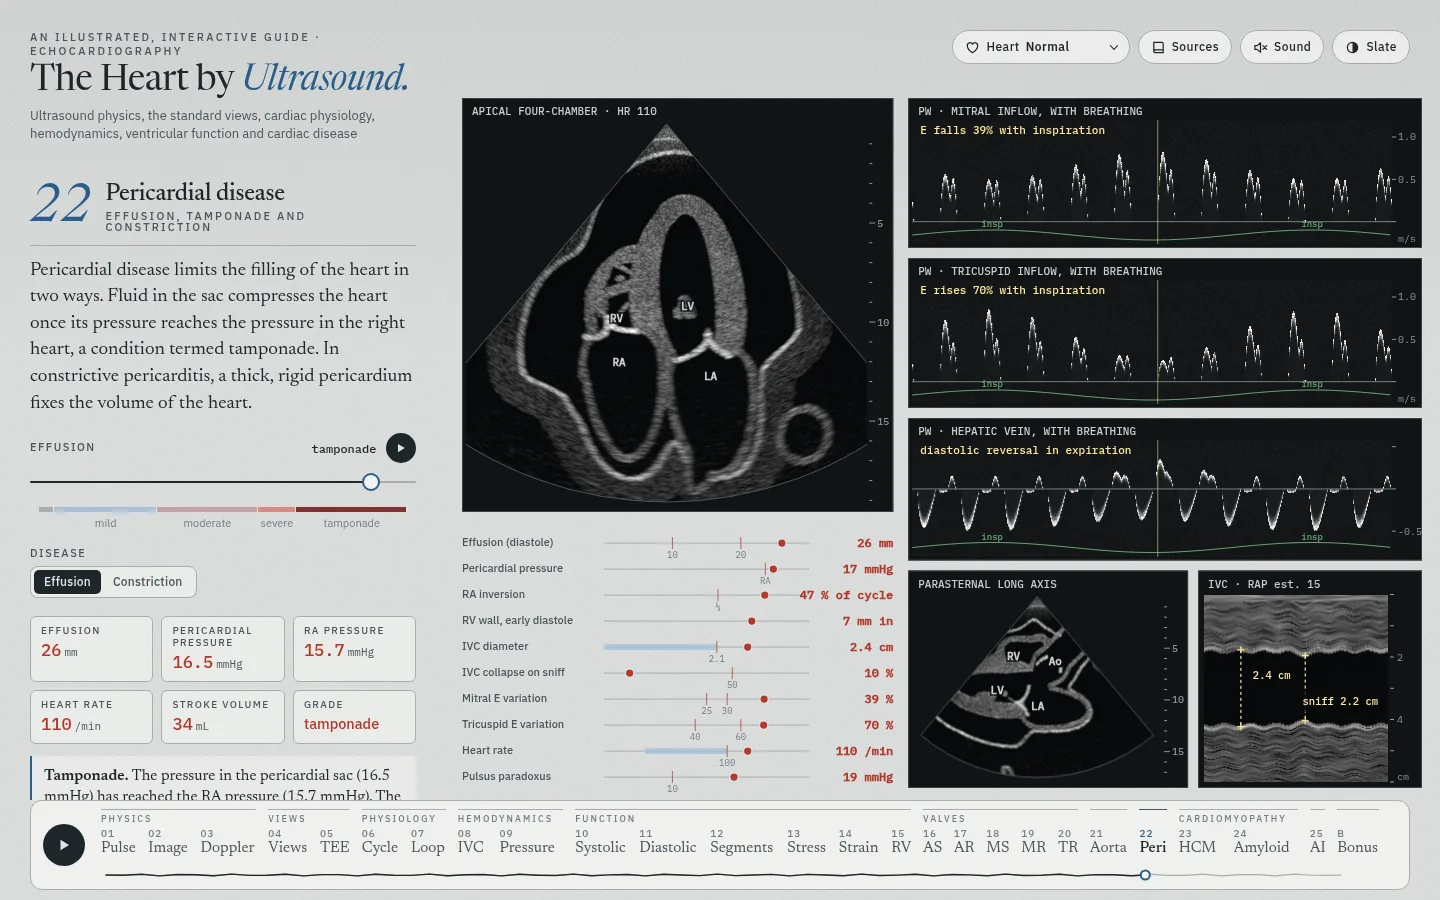
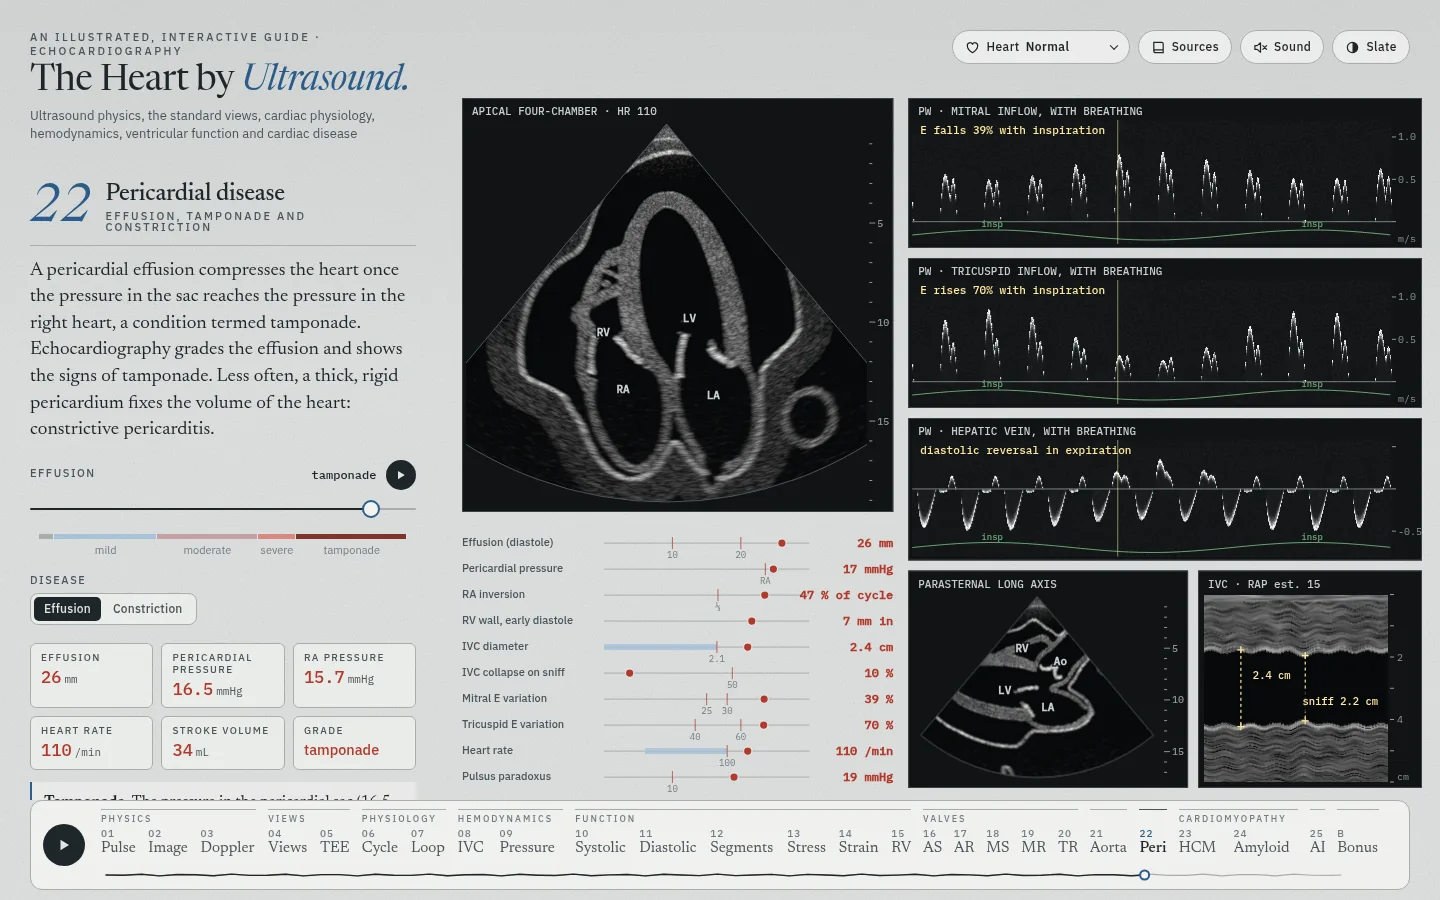
Pericardial disease: the effusion first, constriction shorter
Constriction drops from 559 to 298 words: one section and a paragraph
on restrictive cardiomyopathy, 30% of the words on the two conditions.
The effusion and tamponade keep their 659 words. The dek leads with the
effusion, and three of the four key points are on the effusion and
tamponade. Effusive-constrictive pericarditis is one pitfall of the
effusion. The chapter holds 1,162 words (cap 1,700).

The figure, the live text, the readouts, the quiz and the tour do not
change. README: the chapter row, docs/screenshots/peri.webp and a
checks entry.

Claude-Session: https://claude.ai/code/session_01NtQNVy8YQ5NUAw3xwF3MnN

diff --git a/index.html b/index.html
@@ -1850,7 +1850,7 @@
 
     <article class="chapter" id="ch-peri">
       <div class="ch-head"><span class="ch-num" aria-hidden="true">17</span><div><h2 class="ch-title">Pericardial disease</h2><p class="ch-kicker">Effusion, tamponade and constriction</p></div></div>
-      <p class="dek" data-part="dek">Pericardial disease limits the filling of the heart in two ways. Fluid in the sac compresses the heart once its pressure reaches the pressure in the right heart, a condition termed tamponade. In constrictive pericarditis, a thick, rigid pericardium fixes the volume of the heart.</p>
+      <p class="dek" data-part="dek">A pericardial effusion compresses the heart once the pressure in the sac reaches the pressure in the right heart, a condition termed tamponade. Echocardiography grades the effusion and shows the signs of tamponade. Less often, a thick, rigid pericardium fixes the volume of the heart: constrictive pericarditis.</p>
       <div class="controls">
         <div class="control sev">
           <div class="sev-head">
@@ -1897,34 +1897,25 @@
         <li>The absence of chamber collapse has a negative predictive value of more than 90% for tamponade. RV hypertrophy, severe pulmonary hypertension or severe LV dysfunction can delay or prevent chamber collapse<span class="cite" data-ref="klein2013"></span>.</li>
         <li>Pericardial fluid is distinguished from pleural fluid in the parasternal long-axis view, in which pericardial fluid lies between the descending aorta and the heart and pleural fluid extends posterior to the descending aorta<span class="cite" data-ref="klein2013"></span>.</li>
         <li>Respiratory variation of inflow is not a diagnostic criterion on its own. During positive-pressure ventilation, the variation is minimal, even in tamponade<span class="cite" data-ref="klein2013"></span>.</li>
+        <li>In effusive-constrictive pericarditis, fluid lies between a thickened visceral and parietal pericardium<span class="cite" data-ref="klein2013"></span>, and after pericardiocentesis the RA pressure does not fall by 50% or to below 10 mmHg<span class="cite" data-ref="schulzmenger2025"></span>.</li>
         </ul>
         <h3>Constrictive pericarditis</h3>
-        <p>In constrictive pericarditis a thickened, scarred, inelastic and often calcified pericardium fixes the total volume of the heart, so the diastolic pressures of the chambers rise and equalize. Early diastolic filling is faster than normal, and from mid-diastole little filling occurs<span class="cite" data-ref="klein2013"></span>. Two features define constriction<span class="cite" data-ref="klein2024"></span>:</p>
+        <p>In constrictive pericarditis a thickened, scarred and often calcified pericardium fixes the total volume of the heart, so the diastolic pressures of the chambers rise and equalize<span class="cite" data-ref="klein2013"></span>. The inspiratory fall in intrathoracic pressure reaches the pulmonary veins but not the heart chambers, so LV filling falls with inspiration, RV filling rises and the septum shifts toward the LV. Expiration reverses both, and blood flows back into the hepatic veins<span class="cite" data-ref="klein2013"></span>.</p>
         <ul>
-        <li><b>Dissociation of intrathoracic and intracardiac pressures.</b> The inspiratory fall in intrathoracic pressure reaches the pulmonary veins outside the pericardium but not the heart chambers, so LV filling falls with inspiration<span class="cite" data-ref="klein2013"></span>.</li>
-        <li><b>Ventricular interdependence.</b> As LV filling falls with inspiration, RV filling rises and the septum shifts toward the LV. Expiration reverses both, and blood flows back into the hepatic veins<span class="cite" data-ref="klein2013"></span>.</li>
+        <li><b>Septum.</b> The septum shifts toward the LV with inspiration and moves abruptly toward the LV in early diastole, the septal bounce<span class="cite" data-ref="klein2013"></span>. Without a plethoric IVC and a respiratory septal shift, constriction is unlikely<span class="cite" data-ref="klein2024"></span>.</li>
+        <li><b>Inflow.</b> With inspiration the mitral E velocity falls by more than 25% and the tricuspid E velocity rises by more than 40%<span class="cite" data-ref="klein2013,schulzmenger2025"></span>.</li>
+        <li><b>Annulus and hepatic veins.</b> The medial mitral e′ is normal or increased<span class="cite" data-ref="klein2013"></span>. In expiration the hepatic vein flow reverses at end-diastole<span class="cite" data-ref="klein2013"></span>; the reversal ratio is the end-diastolic reversal velocity ÷ the diastolic forward velocity<span class="cite" data-ref="nagueh2025,klein2024"></span>.</li>
+        <li><b>Pericardium.</b> The normal pericardium is 1–2 mm thick on CT. A thickness above 4 mm on CT or CMR supports constriction, and TTE is unreliable for measuring it<span class="cite" data-ref="klein2013"></span>. Up to 20% of patients with constriction have a pericardium of normal thickness<span class="cite" data-ref="schulzmenger2025"></span>.</li>
         </ul>
-        <h3>Echocardiographic findings of constriction</h3>
-        <ul>
-        <li><b>Septum.</b> The septum shifts toward the LV with inspiration and toward the RV with expiration, and moves abruptly toward the LV in early diastole, the septal bounce. An M-mode recording with a respiratory trace shows both<span class="cite" data-ref="klein2013"></span>.</li>
-        <li><b>IVC and atria.</b> The IVC and the hepatic veins are dilated and collapse little, and both atria are moderately enlarged<span class="cite" data-ref="klein2013"></span>, an LA volume index of 42–48 mL/m²<span class="cite" data-ref="lang2015"></span>. Without a plethoric IVC and a respiratory septal shift, constriction is unlikely<span class="cite" data-ref="klein2024"></span>.</li>
-        <li><b>Mitral and tricuspid inflow.</b> Both ventricles fill in a restrictive pattern. With inspiration the mitral E velocity falls by more than 25% and the tricuspid E velocity rises by more than 40%<span class="cite" data-ref="klein2013,schulzmenger2025"></span>; each variation is (expiration − inspiration) ÷ expiration.</li>
-        <li><b>Hepatic veins.</b> In expiration the diastolic forward flow falls, and the flow reverses at end-diastole<span class="cite" data-ref="klein2013"></span>. The reversal ratio is the end-diastolic reversal velocity ÷ the diastolic forward velocity, both in expiration<span class="cite" data-ref="nagueh2025,klein2024"></span>.</li>
-        <li><b>Tissue Doppler.</b> The medial mitral e′ is normal or increased. The lateral e′ is usually lower, annulus reversus, because the pericardium tethers the lateral annulus, and E/e′ often falls as the LA pressure rises, annulus paradoxus<span class="cite" data-ref="klein2013"></span>.</li>
-        <li><b>Pericardium.</b> The normal pericardium is 1–2 mm thick on CT, and a thickness above 4 mm on CT or CMR supports constriction. TTE is unreliable for measuring the thickness<span class="cite" data-ref="klein2013"></span>, and up to 20% of patients with constriction have a pericardium of normal thickness<span class="cite" data-ref="schulzmenger2025"></span>.</li>
-        </ul>
-        <h3>The Mayo Clinic criteria</h3>
-        <p>In surgically confirmed constriction, septal shift with a medial e′ of 9 cm/s or more, or with a hepatic vein expiratory diastolic reversal ratio of 0.79 or more, had a sensitivity of 87% and a specificity of 91%. All three findings together had a specificity of 97% and a sensitivity of 64%<span class="cite" data-ref="welch2014"></span>. The ESC guideline states the cut-offs as a medial e′ above 8 cm/s and a ratio above 0.78<span class="cite" data-ref="schulzmenger2025"></span>; at the precision that the page prints, they are the same. The guidelines give the septal shift no size; this page calls it present from 3 mm.</p>
+        <p>In the Mayo Clinic series of surgically confirmed constriction, a respiratory septal shift with a medial e′ of 9 cm/s or more, or with a hepatic vein expiratory diastolic reversal ratio of 0.79 or more, had a sensitivity of 87% and a specificity of 91%<span class="cite" data-ref="welch2014"></span>. The guidelines give the septal shift no size; this page calls it present from 3 mm.</p>
         <h3>Constriction or restrictive cardiomyopathy</h3>
-        <p>In restrictive cardiomyopathy, for example cardiac amyloidosis (<a href="#amyloid" data-go="amyloid">chapter 25</a>), the stiff myocardium, not the pericardium, limits filling. The septal e′ is usually 5 cm/s or less<span class="cite" data-ref="nagueh2025"></span>. The 2025 ASE algorithm (<a href="#fill" data-go="fill">chapter 11</a>) grades its diastolic dysfunction, but the guideline does not apply the algorithm in constriction<span class="cite" data-ref="nagueh2025"></span>. The marked respiratory changes in mitral and tricuspid E do not occur<span class="cite" data-ref="hatle1989"></span>, and the atria are more often severely enlarged<span class="cite" data-ref="klein2013"></span>. An e′ below 6 cm/s without a septal shift points to restrictive cardiomyopathy, and an e′ of 6–8 cm/s with a septal shift may indicate mixed physiology<span class="cite" data-ref="klein2024"></span>.</p>
-        <h3>Effusive-constrictive pericarditis</h3>
-        <p>Fluid lies between a thickened visceral and parietal pericardium<span class="cite" data-ref="klein2013"></span>, and the visceral layer constricts the heart. The RA pressure does not fall by 50% or to below 10 mmHg after pericardiocentesis<span class="cite" data-ref="schulzmenger2025"></span>. Before drainage, the Doppler findings lie between those of tamponade and constriction<span class="cite" data-ref="klein2024"></span>.</p>
+        <p>In restrictive cardiomyopathy, for example cardiac amyloidosis (<a href="#amyloid" data-go="amyloid">chapter 25</a>), the stiff myocardium, not the pericardium, limits filling. The septal e′ is usually 5 cm/s or less<span class="cite" data-ref="nagueh2025"></span>, and the marked respiratory changes in mitral and tricuspid E do not occur<span class="cite" data-ref="hatle1989"></span>.</p>
         <h3>Key points</h3>
         <ol class="steps">
         <li>Effusion size is graded by the end-diastolic echo-free space: mild &lt;10 mm, moderate 10–20 mm and severe (large) &gt;20 mm. The rate of fluid accumulation, rather than the size of the effusion, determines how well the effusion is tolerated.</li>
         <li>RA collapse for more than one third of the cardiac cycle and RV free wall collapse in early diastole indicate tamponade physiology. Tamponade is a clinical diagnosis.</li>
-        <li>In constriction, the two ventricles share a fixed volume: inspiration shifts the septum toward the LV, lowers mitral E and raises tricuspid E, and in expiration the hepatic veins reverse.</li>
-        <li>The Mayo Clinic criteria: a respiratory septal shift with a medial e′ of 9 cm/s or more or a hepatic vein expiratory diastolic reversal ratio of 0.79 or more. The medial e′ is reduced in restrictive cardiomyopathy.</li>
+        <li>A dilated IVC that collapses little is present in more than 90% of patients with tamponade, but many other cardiac diseases also cause it.</li>
+        <li>In constriction, inspiration shifts the septum toward the LV and lowers mitral E. The Mayo Clinic criteria pair the septal shift with a medial e′ of 9 cm/s or more or a hepatic vein reversal ratio of 0.79 or more.</li>
         </ol>
       </div>
       <div class="quiz"></div>

diff --git a/README.md b/README.md
@@ -29,7 +29,7 @@ An illustrated, interactive guide to echocardiography: ultrasound physics and Do
 |  | 19 Mitral regurgitation | Mild to severe with LV dysfunction: color jet and flow convergence at 32 cm/s with the PISA radius; CW jet, pulmonary vein flow reversal, E wave, LV and LA dilation. The four-chamber view is cut from the heart mesh, its LA and LV at the printed sizes. Under the Barlow heart the leak starts in mid-systole until it is severe. In the text, the ASE 2017 algorithm (Figure 18) as a diagram, with ▲▼ buttons on thirteen measurements and a switch for a flail leaflet: the PISA formulas with grades I to IV, the specific criteria for mild and for severe MR, and the result with the ACC/AHA stage |
 |  | 20 Tricuspid regurgitation | Mild to torrential: color jet and flow convergence at 28 cm/s with the PISA radius; RV, annulus and RA dilation, hepatic vein reversal, IVC, septal flattening, a jet that slows at the torrential end. The RV-focused four-chamber view and the RV-focused short axis at the papillary muscles are cut from the heart mesh, the RV, the RA and the septum at the printed sizes. In the text, the ASE 2017 algorithm (Figure 31) as a diagram, with ▲▼ buttons on fifteen measurements and switches for the leaflets and the CW contour: the RV systolic pressure, the PISA method with the ASE grades and the EACVI grades beyond severe, the specific criteria for mild and for severe TR, and the result |
 | Aorta | 21 Diseases of the aorta | A switch for the disease and one slider for its severity. Dilation, from normal to 6.0 cm at the sinuses and the ascending aorta: the long axis zoomed on the root, cut from the heart mesh and widened by targets on the aortic wall. At end-diastole, L-L calipers measure the sinuses, the STJ and the ascending aorta; at midsystole, an I-I caliper measures the annulus. The four diameters lie against the normal ranges of Lang 2015, with the sinus Z score, the aorta's profile and the 2022 ACC/AHA thresholds. Under the bicuspid heart the thresholds are those for a bicuspid valve. Dissection: a reverberation of the pericardium at twice its depth, then a mobile flap, then AR, then a pericardial effusion. The long axis with color shows the true lumen expanding in systole with brisk forward flow, and slow, late, reversed flow in the false lumen. No color crosses the flap. As the flap reaches nearer the valve, the AR jet follows it: central as the root dilates, eccentric from a prolapsed right coronary cusp, and beside the flap when it prolapses through the valve. An M-mode and a zoomed root follow the flap. Coarctation, from a mild narrowing to a severe one: the suprasternal view with the narrowing just past the left subclavian artery, its caliper and color jet. The subcostal view gives the abdominal aorta. CW Doppler shows the diastolic tail, and PW Doppler of the abdominal aorta its diastolic forward flow. Two tables set the ACC/AHA 2022 and ESC 2020 criteria side by side |
-| Pericardium | 22 Pericardial disease | One slider and a switch with two settings: Effusion and Constriction. Effusion: no effusion through mild, moderate and severe (large) effusion to tamponade. The four-chamber view is cut from the heart mesh, with the fluid round the heart, RA and RV collapse and the septal shift with each breath; mitral, tricuspid and hepatic vein Doppler over a breath; PLAX from the mesh, with the fluid behind the LV and, in a large effusion, in front of the RV; IVC M-mode. Constriction: a normal pericardium to all three Mayo Clinic criteria. The four-chamber view from the mesh shows the pericardium at the printed thickness, the septum's shift with each breath and the atria at the printed LA volume index. Mitral and tricuspid inflow and hepatic vein flow run over two breaths, with a respiratory trace, beside tissue Doppler of both annular sites, an M-mode of the septum, the IVC on M-mode and the measurements against their cut-offs. The Mayo Clinic criteria grade constriction. Restrictive cardiomyopathy is one paragraph of the text |
+| Pericardium | 22 Pericardial disease | One slider and a switch with two settings: Effusion and Constriction. Effusion: no effusion through mild, moderate and severe (large) effusion to tamponade. The four-chamber view is cut from the heart mesh, with the fluid round the heart, RA and RV collapse and the septal shift with each breath; mitral, tricuspid and hepatic vein Doppler over a breath; PLAX from the mesh, with the fluid behind the LV and, in a large effusion, in front of the RV; IVC M-mode. Constriction: a normal pericardium to all three Mayo Clinic criteria. The four-chamber view from the mesh shows the pericardium at the printed thickness, the septum's shift with each breath and the atria at the printed LA volume index. Mitral and tricuspid inflow and hepatic vein flow run over two breaths, with a respiratory trace, beside tissue Doppler of both annular sites, an M-mode of the septum, the IVC on M-mode and the measurements against their cut-offs. The Mayo Clinic criteria grade constriction. Restrictive cardiomyopathy is one paragraph of the text. The text puts the effusion and tamponade first; constriction holds 30% of its words on the two conditions |
 | Cardiomyopathy | 23 Hypertrophic cardiomyopathy | A normal heart to severe obstructive HCM, with a switch for rest or the Valsalva strain and one for the frame (cine, end-diastole, SAM): the parasternal long axis and the apical three-chamber view cut from the heart mesh, with the anterior septum at the printed thickness, the anterior mitral leaflet at the printed SAM-septal gap or touching the septum for the printed share of systole, the LA at the printed volume index and, on the normal heart, the LV at the printed LVEF; calipers at end-diastole and on the SAM; the outflow jet and the posteriorly directed MR jet in one color box; CW through the LVOT (late-peaking, dagger-shaped) and through the MR on one scale; M-mode through the mitral valve with the SAM. The gradient follows the contact as Pollick 1984 found it. The tables mark the obstruction (none, latent, at rest) and the SAM grade |
 |  | 24 Cardiac amyloidosis | Normal heart to advanced amyloid cardiomyopathy: the parasternal long axis at end-diastole with calipers and the apical four-chamber view, both cut from the heart mesh at the chosen amyloid burden; mitral inflow and septal tissue Doppler; the 17-segment strain bull's-eye; the ESC 2021 echo criteria and the multiparametric score, run live. In the text, the criteria as a diagram: ▲▼ buttons on TAPSE, the Doppler velocities and the longitudinal strain of each level give the diastolic grade, the three findings, the score and the result. The walls, which the image shows, have no buttons and follow the slider |
 | Artificial intelligence | 25 AI interpretation and measurement | EchoPrime and EchoNet-Measurements on one study of the heart shown, in seven steps in three rows. 1 Sort: the 14 videos of the study, cut from the heart mesh, each tagged with its view. Each is one beat in 16 frames of 224 × 224 pixels, EchoPrime's input. Three show color Doppler. 2 Encode: one video encoder, 512 numbers a video. 3 Weigh: the 165 anatomical attention weights of the public code. Each of the 15 report sections has a column, and each video has a row. 4 Answer: about 150 task heads, ten for each section, with the number heads marked. 5 Measure: the nine B-mode measurements of EchoNet-Measurements, each on its view cut from the mesh. Each view shows the frame that its clip reports, with the heat maps and the caliper. The nine Doppler and M-mode measurements sit on eight recordings of the chapters that own them (09, 11, 15, 16 and 19). 6 Anchor: each value of the chosen section on a scale, with its number head and the head's range. 7 Report: the site's report for the heart, with EchoPrime's words in a serif face and the measured numbers in blue. The **Two-peaked map** switch adds a second peak on an RV trabeculation to the septum's heat map. The caliper then reads 1.3 cm, outside the head's range. The anchor moves its end to the peak that agrees: 0.9 cm on the normal heart. The heads and the anchor are a simulation (*Sources and data*). A click on a column, a tile or a sentence chooses a section. Arrows link each step to the next, and two labeled links join the models: the view picks the clip each model reads (from 1 to the B-mode band), and the number heads anchor every value (from 4 to both bands). The figure has no tabs at any size. A figure 840 px wide or more shows every step at once, in three rows at least 540 px tall. The sort takes two fifths of the top row, and steps 2 to 4 take a fifth each. Under the links, the bands sit side by side, or in one card across the figure where that gives larger images, and the anchor and the report sit under them. In a short figure these cards take compact headers, and a tile first drops its own anchor check, then shows its name in its image's tag. A figure under 540 px tall scrolls the rest into view. A figure narrower than 840 px shows the steps in more rows, each as tall as its cards need, and scrolls. The sort sits over the other three steps of EchoPrime, which share a row from 486 px and take two rows below that; from 800 px the sort sits beside them, at two fifths. The bands take two cards from 600 px, else one, and the anchor and the report follow, side by side from 800 px. Where rows lie between the sort and the bands, the sort's link runs down a lane at the left. When a step lights, the figure scrolls its card into view. The videos play only while the sort's card shows |
@@ -583,6 +583,12 @@ node tools/render-video.mjs --reel --stills=7,42.5             # PNG stills at t
 
 Each entry keeps the chapter numbers of the day it was written.
 
+- Pericardial disease: the effusion first, after the request "Merge the two chapters on pericardium, with priority on pericardial effusion and less priority on cp". The text before held 659 words on the effusion and tamponade and 559 on constriction. Constriction is now one section of 259 words and a paragraph of 39 on restrictive cardiomyopathy: 298 words, 30% of the 985 on the two conditions. The dek leads with the effusion, and three of the four key points are on the effusion and tamponade. Effusive-constrictive pericarditis is one pitfall of the effusion. The chapter holds 1,162 words (cap 1,700).
+  - The figure, the live text, the readouts, the quiz and the tour do not change. The sentences that stay keep their citations, and no new source is cited.
+  - `node tools/check-state.mjs` and `node tools/preload.mjs --check` pass. The 31 chapters open at 1440 × 900 and 390 × 844 with no page error.
+  - In both settings at 1440 × 900, the chapter shows 45 citations, each with its number, and no undefined, NaN or Infinity.
+  - `docs/screenshots/peri.webp` was taken again, with the state of the screenshot before.
+  - The video of 22: 1,980 frames, all present (`framecrc`), −14.8 LUFS, a true peak of −3.8 dBTP, and the moov atom before the media data. Its audio decodes to the same samples as the video before. Its title card, the dek's first sentence, now names the effusion and tamponade. Stills at 1, 3, 40 and 55 s were read by eye.
 - Pericardial disease: 22 Pericardial effusion and 23 Constrictive pericarditis are one chapter, after a request: "Consider and see if can combine chapters 22 and 23 to be one chapter focused on the pericardium and tamponade. have a section on constrictive pericarditis but not a full chapter on it. Duplicated PW images, consider if can be overlap or loverlay if needed." The plan was agreed: "Merge as proposed, with the title "Pericardial disease", allow it 1700 words if needed, deprioritize cp". Two answers followed: "The PW strips: one set driven by the mode (my recommendation). cut restrictive cardiomyopathy to one paragraph of text." 24 to 26 become 23 to 25. One slider and a switch with two settings (Effusion, Constriction) set the figure. Each setting keeps the figure and the Doppler strips of its chapter before; an overlay would put two models with different breathing on one time axis. Constriction comes after the effusion in the text, the tour and the video. Restrictive cardiomyopathy is one paragraph of the text: the page no longer grades it, and the table that compared it with constriction is gone. Constrictive pericarditis is hidden as a chapter of its own (`SHOW_CONSTRICT`), with both its settings. Checks:
   - `node --check` passes on the 10 changed or new JS files. `node tools/check-state.mjs` and `node tools/preload.mjs --check` pass (22 model chapters).
   - The chapter holds 1,396 words, counted as for the 1,100-word cap. Its dek holds 45 words, and it has 4 key points. The two chapters before held 768 and 1,047 words. The quiz has 4 questions; the new one is on the Mayo Clinic criteria.
